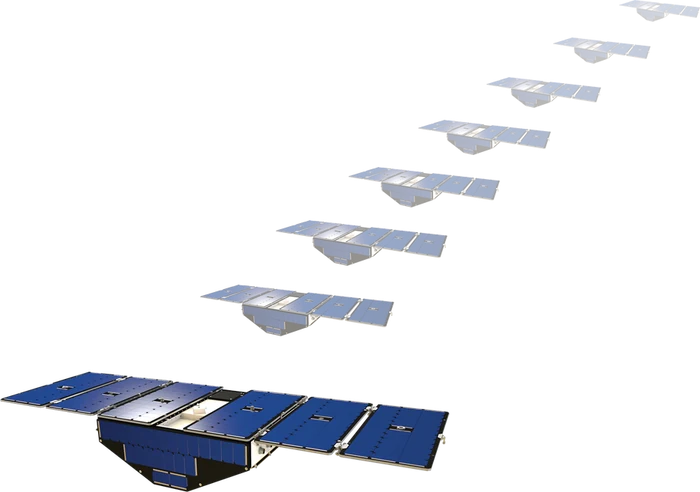
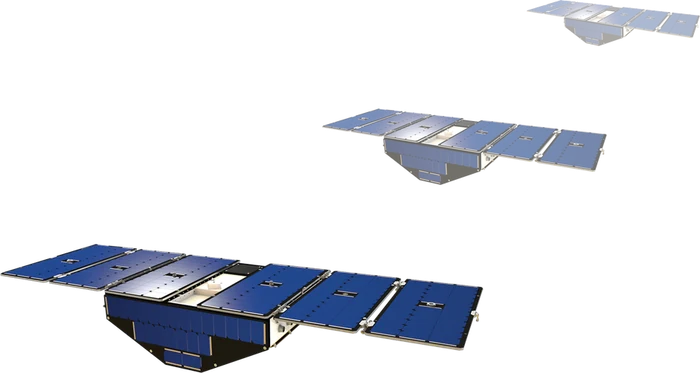
Satellites: full-width band with long top and bottom fades, three CYGNSS satellites
The band runs the full width of the window again and is taller; only its top
and bottom fade into the page, over a longer, eased gradient. CYGNSS is shown
as three satellites. The Earth stays in the spectrum view even without WebGL 2
(the still picture becomes the horizon too), and as the horizon it turns a
little faster. The satellite brought forward has a larger caption. Each
research tab has a one-line description, and coming back to the water cycle
with its tab plays the tour again.

Claude-Session: https://claude.ai/code/session_018Mb1wSLc6uAZXowAzDzvhK

diff --git a/site/assets/satellites.js b/site/assets/satellites.js
@@ -26,7 +26,7 @@
                e.g. 1.35; Sentinel-1 is the reference at 1
      img       picture in assets/satellites/ with a transparent background; without one, an outline is shown and
                the label says the picture is still needed. cygnss.webp is one CYGNSS picture repeated: the lead
-               satellite and its seven companions; gosat-gw.svg is a drawing made for this site
+               satellite and two of its companions (the constellation has eight); gosat-gw.svg is a drawing made for this site
      sensor    the instrument and what it observes, one line
      role      what this satellite gave my work, one sentence (kept for reference, not shown)
      papers    published studies, oldest first: { doi, note }. doi is the key of the paper in assets/journals.js
@@ -139,7 +139,7 @@ const SATELLITES = [
       { doi: "10.1016/j.rse.2025.114825", note: "Sentinel-2 NDVI, NDWI and red-edge bands were among the strongest drivers of crop water content." }
     ],
     work: [FM_WORK] },
-  { id: "cygnss", name: "CYGNSS", full: "Cyclone Global Navigation Satellite System", agency: ["NASA"], launch: "2016", size: 1.25, wave: 0.19, waveText: "19 cm",
+  { id: "cygnss", name: "CYGNSS", full: "Cyclone Global Navigation Satellite System", agency: ["NASA"], launch: "2016", size: 1.15, wave: 0.19, waveText: "19 cm",
     img: "cygnss.webp", sensor: "Eight microsatellites that read GPS signals reflected off the surface (GNSS-R)",
     role: "Sub-daily soil moisture from reflected navigation signals.",
     papers: [
@@ -249,11 +249,7 @@ bar.innerHTML = `<ul class="orbit-legend" aria-label="Agencies"></ul>
     <button type="button" data-mode="spectrum">${svgIcon("wave")}Spectrum</button>
   </div>`;
 frame.parentNode.insertBefore(bar, frame);
-// how the sky fades into the page: "oval" (follows the ring), "glow" (round, centred on the Earth) or "fade" (a long,
-// even fade at the edges); satellites.html?edge=glow tries another
-const EDGE = (q => ["oval", "glow", "fade"].includes(q) ? q : "oval")(new URLSearchParams(location.search).get("edge"));
 stage.dataset.mode = frame.dataset.mode = mode;
-frame.dataset.edge = EDGE;
 const ring = stage.querySelector(".orbit-ring");
 const specSvg = stage.querySelector(".spectrum");
 const usesList = stage.querySelector(".spectrum-uses");
@@ -286,7 +282,7 @@ const buttons = SATELLITES.map((s, i) => {
 });
 
 /* ---- Geometry ---- */
-let SIDE = 48, W = 0, H = 0, cx = 0, cy = 0, Rx = 0, Ry = 0, ER = 0, BW = 0, LABEL = 0.6, EXP = 5, narrow = false;
+let W = 0, H = 0, cx = 0, cy = 0, Rx = 0, Ry = 0, ER = 0, BW = 0, LABEL = 0.6, EXP = 5, narrow = false;
 let pos = 0, current = -1, anim = 0;
 const cur = [];  // the last state drawn for each satellite: { x, y, s, o, z, label }
 // the spectrum: x for a wavelength, the bar, and each satellite's slot
@@ -305,23 +301,21 @@ function spread(want, gap, lo, hi) {  // positions in order, at least gap apart,
 function measure() {
   W = stage.clientWidth; H = stage.clientHeight;
   narrow = W < 700;
-  SIDE = Math.max(14, -parseFloat(getComputedStyle(frame).marginLeft) || 0);  // the margin beyond the text column
-  cx = W / 2; cy = H * 0.43;
+  cx = W / 2; cy = H * (narrow ? 0.44 : 0.43);
   Rx = narrow ? W * 0.41 : Math.min(W * 0.39, 540);
   Ry = Math.min(Rx * (narrow ? 0.52 : 0.30), H * 0.24);
   ER = Ry * (narrow ? 0.86 : 0.94);
   BW = narrow ? W * 0.36 : Math.max(150, Math.min(W * 0.19, 260));
   LABEL = narrow ? 0.95 : 0.6; EXP = narrow ? 8 : 5;
   stage.style.setProperty("--sw", BW + "px");
-  const earth = stage.querySelector(".orbit-earth");
-  Object.assign(earth.style, { width: 2 * ER + "px", height: 2 * ER + "px", left: cx - ER + "px", top: cy - ER + "px" });
+
   for (const [sel, sweep] of [[".orbit-back", 1], [".orbit-front", 0]]) {
     const svg = stage.querySelector(sel);
     svg.setAttribute("viewBox", `0 0 ${W} ${H}`);
     svg.querySelector("path").setAttribute("d", `M${cx - Rx} ${cy} A${Rx} ${Ry} 0 0 ${sweep} ${cx + Rx} ${cy}`);
   }
   // spectrum layout
-  const m = SIDE + (narrow ? 12 : 44);
+  const m = narrow ? 18 : Math.max(44, (W - 1240) / 2);
   SX0 = m; SX1 = W - m;
   BAR = Math.round(H * (narrow ? 0.66 : 0.68)); BARH = narrow ? 20 : 24; PH = narrow ? 92 : 150;
   const rows = narrow ? 3 : 2, box = narrow ? 70 : 120;
@@ -334,37 +328,19 @@ function measure() {
   drawStars(); earthResize(); earthGo(false); maskGo(false);
 }
 
-/* ---- Soft edges: the sky fades gradually into the page through a CSS mask of three gradients: an ellipse (EDGE
-   "oval" follows the ring, "glow" is centred on the Earth) and two long linear fades that bring every edge to
-   nothing. Each eases out over many stops, so there is no visible line. In the spectrum the ellipse opens wide so the
-   chart stays clear, and the mask morphs between the two with the satellites. ---- */
+/* ---- Soft edges: the band runs the full width of the window, and its top and bottom fade gradually into the page
+   through a CSS mask: one vertical gradient that eases out over many stops, so there is no visible line. The fades
+   are long in the orbit view and shorter in the spectrum, which needs the room, and the mask morphs between the two
+   with the satellites. ---- */
 const ease5 = t => t * t * t * (t * (t * 6 - 15) + 10);  // smootherstep: no visible start or end to the fade
 function edgePar(m) {
-  const t = narrow ? 30 : 44;
-  if (EDGE === "fade") return m === "orbit"
-    ? { t: H * (narrow ? 0.15 : 0.2), s: SIDE + (narrow ? 26 : 80), ex: cx, ey: cy, rx: W, ry: H, k0: 50, k1: 51 }
-    : { t: H * 0.1, s: SIDE + 30, ex: cx, ey: cy, rx: W, ry: H, k0: 50, k1: 51 };
-  // the spectrum needs the whole width: a wide ellipse and longer fades at the edges
-  if (m === "spectrum") return { t: H * 0.1, s: SIDE + 30, ex: W / 2, ey: H * 0.5, rx: W * 0.95, ry: H * 1.15, k0: 0.62, k1: 1.25 };
-  if (EDGE === "glow") return { t, s: SIDE, ex: cx, ey: cy + H * 0.06, rx: W * 0.56, ry: H * 0.68, k0: 0.3, k1: 1 };
-  return { t, s: SIDE, ex: cx, ey: cy + H * 0.07, rx: Rx + BW * 0.32, ry: H * 0.43, k0: 0.8, k1: 1.13 };  // oval
-}
-function linearLayer(dir, len, d) {
-  const st = [];
-  for (let i = 0; i <= 10; i++) st.push(`rgba(0,0,0,${ease5(i / 10).toFixed(3)}) ${(i / 10 * d).toFixed(1)}px`);
-  for (let i = 10; i >= 0; i--) st.push(`rgba(0,0,0,${ease5(i / 10).toFixed(3)}) ${(len - i / 10 * d).toFixed(1)}px`);
-  return `linear-gradient(${dir}, ${st.join(", ")})`;
+  return { t: H * (m === "orbit" ? (narrow ? 0.17 : 0.22) : (narrow ? 0.12 : 0.15)) };
 }
 function applyMask(p) {
-  const layers = [linearLayer("to bottom", H, p.t), linearLayer("to right", W, p.s)];
-  if (p.k0 < 20) {
-    const st = ["#000 0%"];
-    for (let i = 0; i <= 12; i++) st.push(`rgba(0,0,0,${(1 - ease5(i / 12)).toFixed(3)}) ${((p.k0 + (p.k1 - p.k0) * i / 12) * 100).toFixed(1)}%`);
-    layers.unshift(`radial-gradient(${p.rx.toFixed(1)}px ${p.ry.toFixed(1)}px at ${p.ex.toFixed(1)}px ${p.ey.toFixed(1)}px, ${st.join(", ")})`);
-  }
-  stage.style.webkitMaskImage = stage.style.maskImage = layers.join(", ");
-  stage.style.maskComposite = layers.map(() => "intersect").join(", ");
-  stage.style.webkitMaskComposite = layers.map(() => "source-in").join(", ");
+  const st = [], N = 16;
+  for (let i = 0; i <= N; i++) st.push(`rgba(0,0,0,${ease5(i / N).toFixed(3)}) ${(i / N * p.t).toFixed(1)}px`);
+  for (let i = N; i >= 0; i--) st.push(`rgba(0,0,0,${ease5(i / N).toFixed(3)}) ${(H - i / N * p.t).toFixed(1)}px`);
+  stage.style.webkitMaskImage = stage.style.maskImage = `linear-gradient(to bottom, ${st.join(", ")})`;
 }
 let mPar = null, mAnim = 0;
 function maskGo(animate) {
@@ -641,6 +617,10 @@ function lerpPar(a, b, e) {
 }
 function earthGo(animate) {  // move the Earth to where the current view wants it
   const to = earthTarget();
+  // the still picture follows too (CSS transitions it), so the Earth is there even without WebGL 2
+  const still = stage.querySelector(".orbit-earth");
+  still.classList.toggle("no-move", !animate);
+  Object.assign(still.style, { width: 2 * to.r + "px", height: 2 * to.r + "px", left: to.cx - to.r + "px", top: to.cy - to.r + "px" });
   if (!animate || !ePar || reduced.matches) { ePar = to; eFrom = eTo = null; return; }
   eFrom = ePar; eTo = to; eT0 = performance.now(); eDur = 2200;
 }
@@ -757,7 +737,7 @@ function startEarth() {
       if (!eLast) eLast = now;
       // one turn in two and a half minutes in the ring; as the horizon the Earth is far bigger, so it turns far slower,
       // until its surface drifts by only a few pixels a second and does not pull the eye from the chart
-      if (!reduced.matches) espin += (now - eLast) * (2 * Math.PI / 150000) * Math.pow(Math.min(1, ER / ePar.r), 1.6);
+      if (!reduced.matches) espin += (now - eLast) * (2 * Math.PI / 150000) * Math.pow(Math.min(1, ER / ePar.r), 1.25);
       eLast = now; renderEarth(now);
     } else eLast = 0;
     requestAnimationFrame(tick);

diff --git a/site/assets/satellites.css b/site/assets/satellites.css
@@ -5,12 +5,13 @@
 /* ---- The sky: full width, like a band across the page ---- */
 /* The bar above the sky: the agency key and the Orbit / Spectrum switch, on the page's own colours. */
 .orbit-bar {display:flex; flex-wrap:wrap; justify-content:space-between; align-items:center; gap:12px 24px; margin-top:26px;}
-/* The frame: as wide as the text column, plus a small margin each side (up to 56px). It holds the sky and the arrows. */
-.orbit-frame {--bleed:min(56px, calc((100vw - 100%) / 2)); position:relative; margin:6px calc(-1 * var(--bleed)) 0;}
+/* The frame: the full width of the window. It holds the sky and the arrows. */
+body.sat-page {overflow-x:clip;}
+.orbit-frame {position:relative; margin:6px calc(50% - 50vw) 0;}
 .orbit {
   --sky-ink:#e6edf6; --sky-ink-2:#a9b8cc; --sky-line:rgba(255,255,255,.22);
   position:relative; overflow:hidden;
-  height:clamp(600px, 62vw, 880px);
+  height:clamp(680px, 70vw, 1000px);
   /* the edges fade gradually into the page through a mask of gradients set by assets/satellites.js (applyMask) */
   -webkit-mask-repeat:no-repeat; mask-repeat:no-repeat;
   background:#04070f; color:var(--sky-ink);
@@ -37,10 +38,10 @@
 /* the still Earth: shown until the live globe (.earth-gl) is ready, and where WebGL 2 is missing */
 .orbit-earth {position:absolute; z-index:100; border-radius:50%; pointer-events:none; background:url("satellites/earth-static.webp") center / 100% 100% no-repeat;
   box-shadow:-6px -4px 26px 2px rgba(110,170,255,.28), 0 0 90px 10px rgba(60,110,220,.12);
-  transition:opacity 1.2s ease, transform 1.8s cubic-bezier(.65,0,.35,1);}
+  transition:left 2.2s cubic-bezier(.65,0,.35,1), top 2.2s cubic-bezier(.65,0,.35,1), width 2.2s cubic-bezier(.65,0,.35,1), height 2.2s cubic-bezier(.65,0,.35,1);}
 .orbit.gl-on .orbit-earth {visibility:hidden;}
 .earth-gl {position:absolute; inset:0; z-index:100; width:100%; height:100%; pointer-events:none;}
-.orbit[data-mode="spectrum"] .orbit-earth {opacity:0; transform:translateY(30%) scale(.5);}
+.orbit-earth.no-move {transition:none;}
 
 /* ---- The spectrum ---- */
 .spectrum {position:absolute; inset:0; width:100%; height:100%; z-index:120; pointer-events:none; opacity:0; transition:opacity .9s ease;}
@@ -104,6 +105,10 @@
 .orbit[data-mode="spectrum"] .sat-wave {display:block; font-size:calc(.72rem * var(--k, 1)); color:#d4e0ee;}
 .orbit[data-mode="spectrum"] .sat-label {font-size:calc(.8rem * var(--k, 1)); gap:calc(6px * var(--k, 1));}
 .orbit[data-mode="spectrum"] .sat-label .ag-dot {width:calc(8px * var(--k, 1)); height:calc(8px * var(--k, 1));}
+/* the satellite brought to the front: a larger caption */
+.orbit[data-mode="orbit"] .sat[aria-selected="true"] .sat-label {font-size:1.18rem; gap:9px;}
+.orbit[data-mode="orbit"] .sat[aria-selected="true"] .sat-label .ag-dot {width:11px; height:11px;}
+.orbit[data-mode="orbit"] .sat[aria-selected="true"] .sat-year {font-size:.9rem; margin-top:4px;}
 .sat:focus-visible {outline:none;}
 .sat:focus-visible .sat-name {outline:2px solid #ffd23f; outline-offset:3px; border-radius:3px;}
 .sat.is-placeholder .sat-img {opacity:.5; padding:12% 20%;}
@@ -123,7 +128,7 @@
 .orbit-legend .ag-dot {width:11px; height:11px; box-shadow:none;}
 
 /* the arrows sit either side of the front satellite's name; solid, so they read on the sky and on the fade */
-.orbit-controls {position:absolute; z-index:300; left:50%; bottom:clamp(40px, 9%, 84px); transform:translateX(-50%); display:flex; gap:min(300px, 58vw); transition:opacity .3s;}
+.orbit-controls {position:absolute; z-index:300; left:50%; bottom:15%; transform:translateX(-50%); display:flex; gap:min(300px, 58vw); transition:opacity .3s;}
 .orbit-frame[data-mode="spectrum"] .orbit-controls {opacity:0; pointer-events:none;}
 .orbit-step {display:grid; place-items:center; width:44px; height:44px; padding:0; border-radius:50%; border:1px solid rgba(255,255,255,.18);
   background:#0c1833; color:#e6edf6; cursor:pointer; box-shadow:0 2px 10px rgba(0,0,0,.25); transition:background .2s;}
@@ -154,7 +159,7 @@
 .sat-credits {margin:28px 0 0; font-size:.75rem; color:var(--ink-2);}
 
 @media (max-width: 760px) {
-  .orbit {height:clamp(560px, 148vw, 700px);}
+  .orbit {height:clamp(620px, 168vw, 800px);}
   .orbit-bar {gap:10px;}
   .orbit-legend {gap:6px 14px; font-size:.82rem;}
   .orbit-modes button {padding:7px 14px; font-size:.86rem;}

diff --git a/site/index.html b/site/index.html
@@ -16,9 +16,9 @@
 <link href="https://fonts.googleapis.com/css2?family=Fira+Sans:ital,wght@0,400;0,500;0,600;1,400&display=swap" rel="stylesheet">
 <link rel="stylesheet" href="assets/site.css?v=3f73e8bf25">
 <script src="assets/nav.js?v=34d4b2a47a" defer></script>
-<link rel="stylesheet" href="assets/water-cycle.css?v=66e5abac61">
+<link rel="stylesheet" href="assets/water-cycle.css?v=0fb6dccd4e">
 <script src="assets/journals.js?v=2bf1a5a0ed"></script>
-<script src="assets/water-cycle.js?v=5667db4cd7" defer></script>
+<script src="assets/water-cycle.js?v=716b04b2e1" defer></script>
 <script src="assets/farm-cue.js?v=d2e3e050a1" defer></script>
 <script>
 /* The irrigation sections moved to irrigation.html: old links to them (index.html#studies, #landscape, ?preview from the
@@ -47,7 +47,7 @@ if(ids.indexOf(h)>=0||/[?&]preview\b/.test(location.search))location.replace('ir
   <main>
 <section class="water-cycle" aria-labelledby="cycle-title">
  <div class="cycle-heading"><div><h1 id="cycle-title">My research</h1></div><p class="cycle-intro">I study how water moves through landscapes, how people reshape its journey, and what satellites reveal about both.</p></div>
- <nav class="research-tabs" aria-label="Ways into my research"><a href="index.html" aria-current="page"><span class="rt-mark" aria-hidden="true"></span><img src="assets/research-tabs/water-cycle.webp?v=f1407fe1c8" alt="" width="240" height="150"><span class="rt-name">Water cycle</span></a><a href="satellites.html"><img src="assets/research-tabs/satellites.webp?v=762989d88e" alt="" width="240" height="150"><span class="rt-name">Satellites</span></a></nav>
+ <nav class="research-tabs" aria-label="Ways into my research"><a href="index.html" aria-current="page"><span class="rt-mark" aria-hidden="true"></span><img src="assets/research-tabs/water-cycle.webp?v=f1407fe1c8" alt="" width="240" height="150"><span class="rt-text"><span class="rt-name">Water cycle</span><span class="rt-sub">Studies on each part of the water cycle, from snow to farms</span></span></a><a href="satellites.html"><img src="assets/research-tabs/satellites.webp?v=762989d88e" alt="" width="240" height="150"><span class="rt-text"><span class="rt-name">Satellites</span><span class="rt-sub">The same studies, grouped by the satellite behind each one</span></span></a></nav>
  <div class="explorer-toolbar"><div class="toolbar-actions"><button class="tour-toggle" id="tour-toggle" type="button">Play tour</button></div></div>
  <div class="explorer" id="explore" data-popup="summary" data-cue="beacon,tag"><svg class="landscape" xmlns="http://www.w3.org/2000/svg" viewBox="0 65 1130 640" aria-labelledby="scene-title scene-desc">
 <title id="scene-title">A watershed, seen through my research</title><desc id="scene-desc">An isometric watershed that drains to a coast, with eight interactive areas: snow and frozen ground, rain, a lake, vegetation, soil moisture in the surface layer and root zone, drainage, rivers, and a farm linking to a second landscape, where a center pivot draws on a groundwater well whose pumping lowers the water table around it in a cone of depression, and a diversion dam on the river feeds canals that irrigate rectangular fields one at a time. Tab to each area and press Enter, or choose the matching buttons below.</desc>

diff --git a/site/satellites.html b/site/satellites.html
@@ -16,10 +16,10 @@
 <link href="https://fonts.googleapis.com/css2?family=Fira+Sans:ital,wght@0,400;0,500;0,600;1,400&display=swap" rel="stylesheet">
 <link rel="stylesheet" href="assets/site.css?v=3f73e8bf25">
 <script src="assets/nav.js?v=34d4b2a47a" defer></script>
-<link rel="stylesheet" href="assets/water-cycle.css?v=66e5abac61">
-<link rel="stylesheet" href="assets/satellites.css?v=8c24d6c1e2">
+<link rel="stylesheet" href="assets/water-cycle.css?v=0fb6dccd4e">
+<link rel="stylesheet" href="assets/satellites.css?v=0e1283ff33">
 <script src="assets/journals.js?v=2bf1a5a0ed"></script>
-<script src="assets/satellites.js?v=00c11865c5" defer></script>
+<script src="assets/satellites.js?v=abb70568a3" defer></script>
 <style>@view-transition { navigation: auto; }</style>
 </head>
 <body class="sat-page">
@@ -41,7 +41,7 @@
   <main>
     <section class="water-cycle sat-view" aria-labelledby="sat-title">
       <div class="cycle-heading"><div><h1 id="sat-title">My research</h1></div><p class="cycle-intro">I study how water moves through landscapes, how people reshape its journey, and what satellites reveal about both.</p></div>
-      <nav class="research-tabs" aria-label="Ways into my research"><a href="index.html"><img src="assets/research-tabs/water-cycle.webp?v=f1407fe1c8" alt="" width="240" height="150"><span class="rt-name">Water cycle</span></a><a href="satellites.html" aria-current="page"><span class="rt-mark" aria-hidden="true"></span><img src="assets/research-tabs/satellites.webp?v=762989d88e" alt="" width="240" height="150"><span class="rt-name">Satellites</span></a></nav>
+      <nav class="research-tabs" aria-label="Ways into my research"><a href="index.html"><img src="assets/research-tabs/water-cycle.webp?v=f1407fe1c8" alt="" width="240" height="150"><span class="rt-text"><span class="rt-name">Water cycle</span><span class="rt-sub">Studies on each part of the water cycle, from snow to farms</span></span></a><a href="satellites.html" aria-current="page"><span class="rt-mark" aria-hidden="true"></span><img src="assets/research-tabs/satellites.webp?v=762989d88e" alt="" width="240" height="150"><span class="rt-text"><span class="rt-name">Satellites</span><span class="rt-sub">The same studies, grouped by the satellite behind each one</span></span></a></nav>
       <!-- The sky, the Earth, the ring and the spectrum are drawn by assets/satellites.js. -->
       <div class="orbit" id="orbit"></div>
       <section class="sat-panel" id="sat-panel" role="tabpanel" tabindex="-1"></section>

diff --git a/site/assets/water-cycle.js b/site/assets/water-cycle.js
@@ -204,10 +204,12 @@ const explorer=document.querySelector('#explore');
 const tourKeys=[...new Set([...document.querySelectorAll('.landscape .scene-item[data-topic]')].map(e=>e.dataset.topic))].filter(k=>topics[k]).sort((a,b)=>topics[a].n.localeCompare(topics[b].n));
 const tourWith=k=>document.querySelector('.scene-item[data-topic="'+k+'"]')?.dataset.tourWith;
 const tourSteps=tourKeys.filter(k=>!tourWith(k)).map(k=>[k,...tourKeys.filter(o=>tourWith(o)===k)]);
+// Coming back from the satellites (the Water cycle tab) plays the tour again, as on a first visit.
+function fromSatellites(){try{const r=new URL(document.referrer);return r.origin===location.origin&&/\/satellites\.html$/.test(r.pathname);}catch(e){return false;}}
 const tourSeenKey='water-cycle-tour-v3-'+(isHuman?'human':'main');
 const minStep=Math.max(1600,4800/tourSteps.length),maxStep=3200,maxRate=3;
 // autoDone: the automatic tour has had its chance on this page view. Seen: it finished or the visitor stopped it, so the rest of the visit skips it.
-let tour=null,inView=false,autoPending=0,tourMoved=0,lastPointer=null,autoDone=(()=>{try{return sessionStorage.getItem(tourSeenKey)==='1';}catch(e){return false;}})();
+let tour=null,inView=false,autoPending=0,tourMoved=0,lastPointer=null,autoDone=(()=>{try{if(fromSatellites())return false;return sessionStorage.getItem(tourSeenKey)==='1';}catch(e){return false;}})();
 let cuesHidden=null,cuesInTimer=0;
 function syncTourPending(){
  const pending=!autoDone&&!tour&&motionEnabled&&!reduced.matches,hidden=pending||!!tour;

diff --git a/site/assets/water-cycle.css b/site/assets/water-cycle.css
@@ -17,7 +17,9 @@
 .research-tabs img {position:relative; flex:none; width:clamp(112px, 15vw, 168px); height:auto; aspect-ratio:8 / 5; object-fit:cover;
   border-radius:10px; filter:saturate(.3); opacity:.75; transition:filter .25s, opacity .25s;}
 .research-tabs a:hover img {filter:none; opacity:1;}
-.research-tabs .rt-name {position:relative;}
+.research-tabs .rt-text {position:relative; display:flex; flex-direction:column; gap:6px; min-width:0;}
+.research-tabs .rt-sub {font-size:.92rem; font-weight:400; line-height:1.4; color:var(--ink-2); max-width:34ch;}
+.research-tabs a[aria-current="page"] .rt-sub {color:var(--paper); opacity:.78;}
 .research-tabs a[aria-current="page"] {color:var(--paper); box-shadow:none;}
 .research-tabs a[aria-current="page"] img {filter:none; opacity:1;}
 .rt-mark {position:absolute; inset:0; border-radius:16px; background:var(--ink); view-transition-name:research-tab;}
@@ -26,6 +28,8 @@
   .research-tabs {gap:10px; margin-top:22px;}
   .research-tabs a {flex-direction:column; align-items:stretch; gap:8px; padding:8px 8px 10px; text-align:center; font-size:1.05rem;}
   .research-tabs img {width:100%;}
+  .research-tabs .rt-text {gap:4px;}
+  .research-tabs .rt-sub {font-size:.76rem; line-height:1.35;}
 }
 @media (prefers-reduced-motion: reduce) {::view-transition-group(*), ::view-transition-old(*), ::view-transition-new(*) {animation:none !important;}}
 /* Play tour: vibrant orange with black text in both themes. */

diff --git a/site/human.html b/site/human.html
@@ -16,9 +16,9 @@
 <link href="https://fonts.googleapis.com/css2?family=Fira+Sans:ital,wght@0,400;0,500;0,600;1,400&display=swap" rel="stylesheet">
 <link rel="stylesheet" href="assets/site.css?v=3f73e8bf25">
 <script src="assets/nav.js?v=34d4b2a47a" defer></script>
-<link rel="stylesheet" href="assets/water-cycle.css?v=66e5abac61">
+<link rel="stylesheet" href="assets/water-cycle.css?v=0fb6dccd4e">
 <script src="assets/journals.js?v=2bf1a5a0ed"></script>
-<script src="assets/water-cycle.js?v=5667db4cd7" defer></script>
+<script src="assets/water-cycle.js?v=716b04b2e1" defer></script>
 </head><body class="human-page"><a class="skip" href="#explore">Skip to landscape</a><div class="wrap">  <header class="site-head">
     <a class="site-name" href="about.html" aria-label="Ehsan Jalilvand, about me"><img class="ej" src="assets/ej-64.png?v=5f8a71e437" alt="" width="30" height="30"><span>Ehsan Jalilvand</span></a>
     <nav class="site-nav" aria-label="Main">

diff --git a/site/irrigation.html b/site/irrigation.html
@@ -16,7 +16,7 @@
 <link href="https://fonts.googleapis.com/css2?family=Fira+Sans:ital,wght@0,400;0,500;0,600;1,400&display=swap" rel="stylesheet">
 <link rel="stylesheet" href="assets/site.css?v=3f73e8bf25">
 <script src="assets/nav.js?v=34d4b2a47a" defer></script>
-<link rel="stylesheet" href="assets/water-cycle.css?v=66e5abac61">
+<link rel="stylesheet" href="assets/water-cycle.css?v=0fb6dccd4e">
 <link rel="stylesheet" href="assets/study-grid.css?v=e268a9f47b">
 <link rel="stylesheet" href="assets/irrigation.css?v=785a71bae3">
 <script src="assets/journals.js?v=2bf1a5a0ed"></script>

diff --git a/docs/MAINTAINING.md b/docs/MAINTAINING.md
@@ -19,7 +19,7 @@ docs/                 these notes and docs/JOURNEY.md
 | Path | Contents |
 |---|---|
 | `index.html` | Research: the water-cycle map only, with the cues that invite a click on the farm (`assets/farm-cue.js`) and a link card under the map. Clicking the farm opens `irrigation.html`; every other part still opens its pop-up of papers. |
-| `satellites.html` | Satellites: the second way into the research. `index.html` and `satellites.html` share the heading "My research" and two picture tabs, **Water cycle** and **Satellites** (`.research-tabs` in `assets/water-cycle.css`, thumbnails in `assets/research-tabs/`); the current one is filled, and the fill slides across when switching where the browser supports view transitions between pages. On the sky, **Orbit** and **Spectrum** switch between two arrangements of the same satellites: a ring around a turning Earth on the Milky Way (Ehsan's photo, split into `space-glow.webp` and its stars in `space-stars.bin`, which are redrawn sharp), in launch order with each launch year; and the electromagnetic spectrum (long waves on the left, as on NASA's chart), with the atmosphere's windows, a wave, the bands, the wavelength scale and what each part shows (soil moisture, through clouds, rain, heat, vegetation). Switching flies each satellite to its new place while the sky gives way to the spectrum and the Earth grows into the horizon under it. Clicking a satellite, dragging the ring (orbit only) or the arrow keys selects one; the panel below shows its agency, launch year and instrument, then its studies as the map's paper cards and its work in progress. All of it is data at the top of `assets/satellites.js` (`SATELLITES` with each satellite's `wave` and `waveText`, `AGENCIES`, `USES`, `OPACITY`); papers are looked up by DOI in `assets/journals.js`. `satellites.html#smap` selects SMAP, `?view=spectrum` opens the spectrum. The Earth is drawn with WebGL 2 from NASA's Blue Marble at 4096 px (`earth-day-4k.webp`), NASA cloud and city-light maps (`earth-clouds.webp`, `earth-lights-4k.webp`) and an ocean mask for the sun's glint (`earth-water.webp`, GLOBE, NOAA); `earth-static.webp` stands in until it is ready and where WebGL 2 is missing. `cygnss.webp` repeats the CYGNSS picture as the lead satellite and its seven companions; `gosat-gw.svg` is a drawing, not an official picture. The sky is as wide as the text column plus a small margin each side (up to 56px, `--bleed` in `assets/satellites.css`), and it fades gradually into the page through a CSS mask of gradients (`applyMask()`), in one of three styles: `oval` (the default, an oval that follows the ring), `glow` (round, centred on the Earth) or `fade` (a long, even fade at the edges); `satellites.html?edge=glow` tries one, and `EDGE` in `assets/satellites.js` sets the default. In the spectrum the mask opens wide and morphs with the satellites. The agency key and the Orbit / Spectrum switch sit in a bar above the sky, on the page's colours. The switch to the spectrum is deliberately slow (about 2.5 s), and the Earth turns far slower as the horizon than in the ring. A satellite's `size` draws thin or sparse pictures (SMAP, NISAR) larger; the chosen satellite is drawn bigger still. Styles in `assets/satellites.css`. |
+| `satellites.html` | Satellites: the second way into the research. `index.html` and `satellites.html` share the heading "My research" and two picture tabs, **Water cycle** and **Satellites**, each with a one-line description (`.research-tabs` in `assets/water-cycle.css`, thumbnails in `assets/research-tabs/`); the current one is filled, and the fill slides across when switching where the browser supports view transitions between pages. On the sky, **Orbit** and **Spectrum** switch between two arrangements of the same satellites: a ring around a turning Earth on the Milky Way (Ehsan's photo, split into `space-glow.webp` and its stars in `space-stars.bin`, which are redrawn sharp), in launch order with each launch year; and the electromagnetic spectrum (long waves on the left, as on NASA's chart), with the atmosphere's windows, a wave, the bands, the wavelength scale and what each part shows (soil moisture, through clouds, rain, heat, vegetation). Switching flies each satellite to its new place while the sky gives way to the spectrum and the Earth grows into the horizon under it. Clicking a satellite, dragging the ring (orbit only) or the arrow keys selects one; the panel below shows its agency, launch year and instrument, then its studies as the map's paper cards and its work in progress. All of it is data at the top of `assets/satellites.js` (`SATELLITES` with each satellite's `wave` and `waveText`, `AGENCIES`, `USES`, `OPACITY`); papers are looked up by DOI in `assets/journals.js`. `satellites.html#smap` selects SMAP, `?view=spectrum` opens the spectrum. The Earth is drawn with WebGL 2 from NASA's Blue Marble at 4096 px (`earth-day-4k.webp`), NASA cloud and city-light maps (`earth-clouds.webp`, `earth-lights-4k.webp`) and an ocean mask for the sun's glint (`earth-water.webp`, GLOBE, NOAA); `earth-static.webp` stands in until it is ready and where WebGL 2 is missing. `cygnss.webp` repeats the CYGNSS picture as the lead satellite and two companions; `gosat-gw.svg` is a drawing, not an official picture. The sky is a full-width band whose top and bottom fade gradually into the page through a CSS mask (`applyMask()`; longer fades in the orbit view, shorter in the spectrum, morphing between the two). The agency key and the Orbit / Spectrum switch sit in a bar above it, on the page's colours. Coming back to the water cycle with its tab plays the water-cycle tour again (`fromSatellites()` in `assets/water-cycle.js`). The switch to the spectrum is deliberately slow (about 2.5 s), and the Earth turns far slower as the horizon than in the ring. A satellite's `size` draws thin or sparse pictures (SMAP, NISAR) larger; the chosen satellite is drawn bigger still. Styles in `assets/satellites.css`. |
 | `irrigation.html` | Irrigation: a banner photo with the title, then "Why irrigation matters" and "The gap", told as on the Irrigation page of the old Google Site (statements, each with its pictures beside the facts; `assets/irrigation.css`, `assets/irrigation/`), then my irrigation studies (the storyline), the essential reading list and the research library. |
 | `gallery.html` | Gallery: a map with a pin per place (`data/gallery.json`), a panel with that place's pictures, and a viewer. `assets/gallery.css`, `assets/gallery.js`; Leaflet 1.9.4 is in `assets/vendor/leaflet/` (BSD-2 licence), the map offers four basemaps, none needing a key (`BASEMAPS` in `assets/gallery.js`): Toner (the default; black and white, after Stamen), Terrain (Esri World Topo), NASA Blue Marble relief (GIBS shaded relief and bathymetry, with Esri's place names and borders on top) and Dark gray (Esri's Dark Gray Canvas with its own labels; Esri lists it as in mature support, no longer updated). The layers button under the zoom buttons switches them; `data-basemap` on `#gl-map` in `gallery.html` sets the default, `gallery.html?map=terrain` (or `bluemarble`, `dark`) opens with another, and a choice a visitor makes in the layers menu is remembered in their browser (a remembered choice that no longer exists falls back to the default; remembered choices were reset once when Toner became the default).<br><br>**Toner** is drawn in the browser by MapLibre GL JS 5.24 (BSD-3) through the maplibre-gl-leaflet bridge 0.1.4 (ISC), both in `assets/vendor/maplibre/`, from [OpenFreeMap](https://openfreemap.org)'s vector tiles (OpenMapTiles schema, no key, no account, no usage limits). MapLibre (about 280 KB compressed) loads only when Toner is shown. The style (`tonerStyle()` in `gallery.js`) is adapted from MapTiler's open [Toner GL style](https://github.com/openmaptiles/maptiler-toner-gl-style) (code BSD-3, design CC BY 4.0; licence in `assets/vendor/maplibre/LICENSE-toner-style.md`), with its fonts mapped to the Noto Sans that OpenFreeMap serves and its fill patterns drawn in code. Its colours are `TONER` in `gallery.js`: `water` is a lighter black (`#2E2E2E`) than Stamen's pure black, so the oceans don't weigh down the world view; set it to `#000000` for the original look. Without WebGL, or if MapLibre fails to load, the map falls back to Terrain (and says why in the browser console). Physical, Satellite, Topographic contours and Streets were dropped on November 3, 2026, at Ehsan's request. CARTO's basemaps were dropped in October 2026 when they started answering "API key required". |
 | `assets/ej-32.png`, `ej-64.png`, `ej-180.png` | The EJ mark (the old Google Site's favicon), used as the favicon and before the name in every header; on My journey it sits before the page title. The mark and name link to About. |
